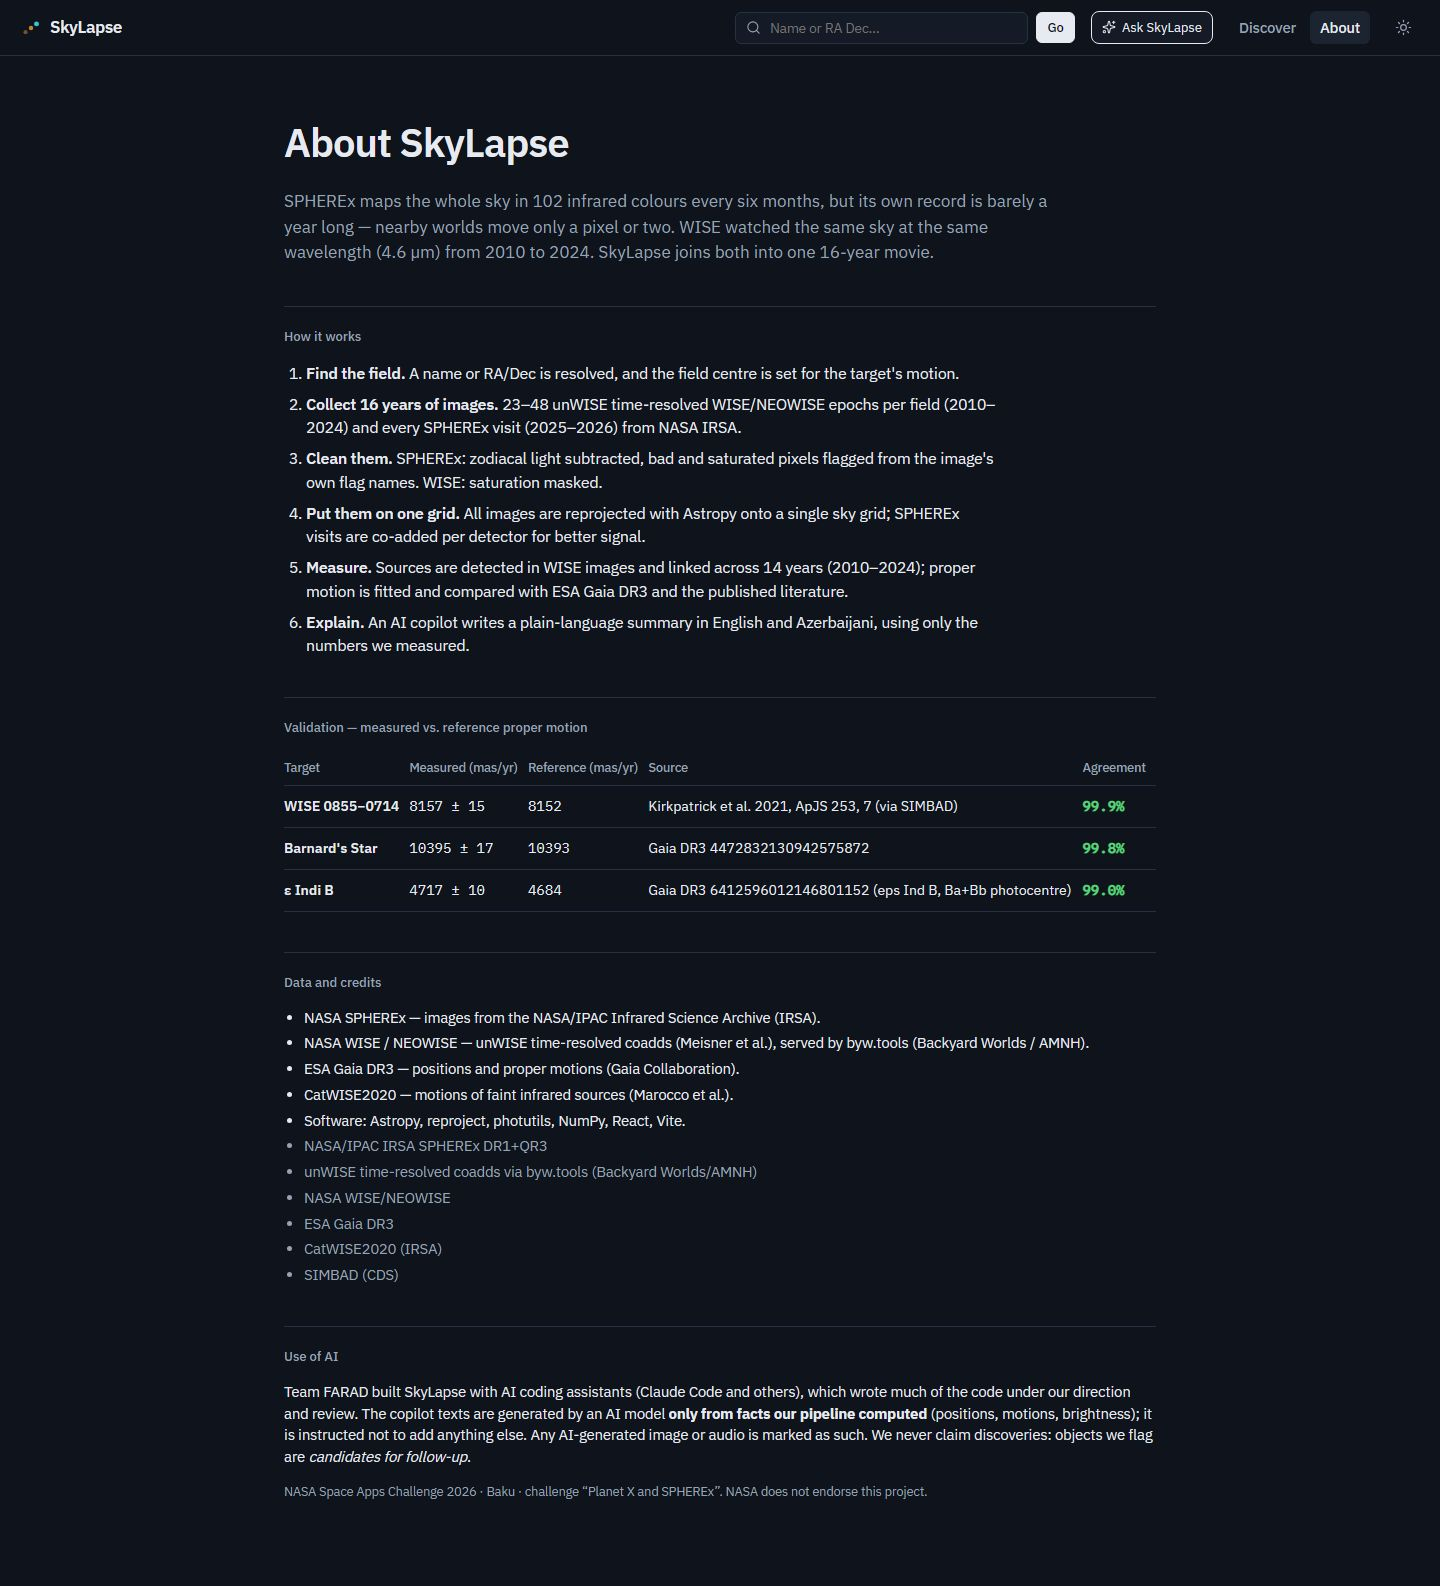
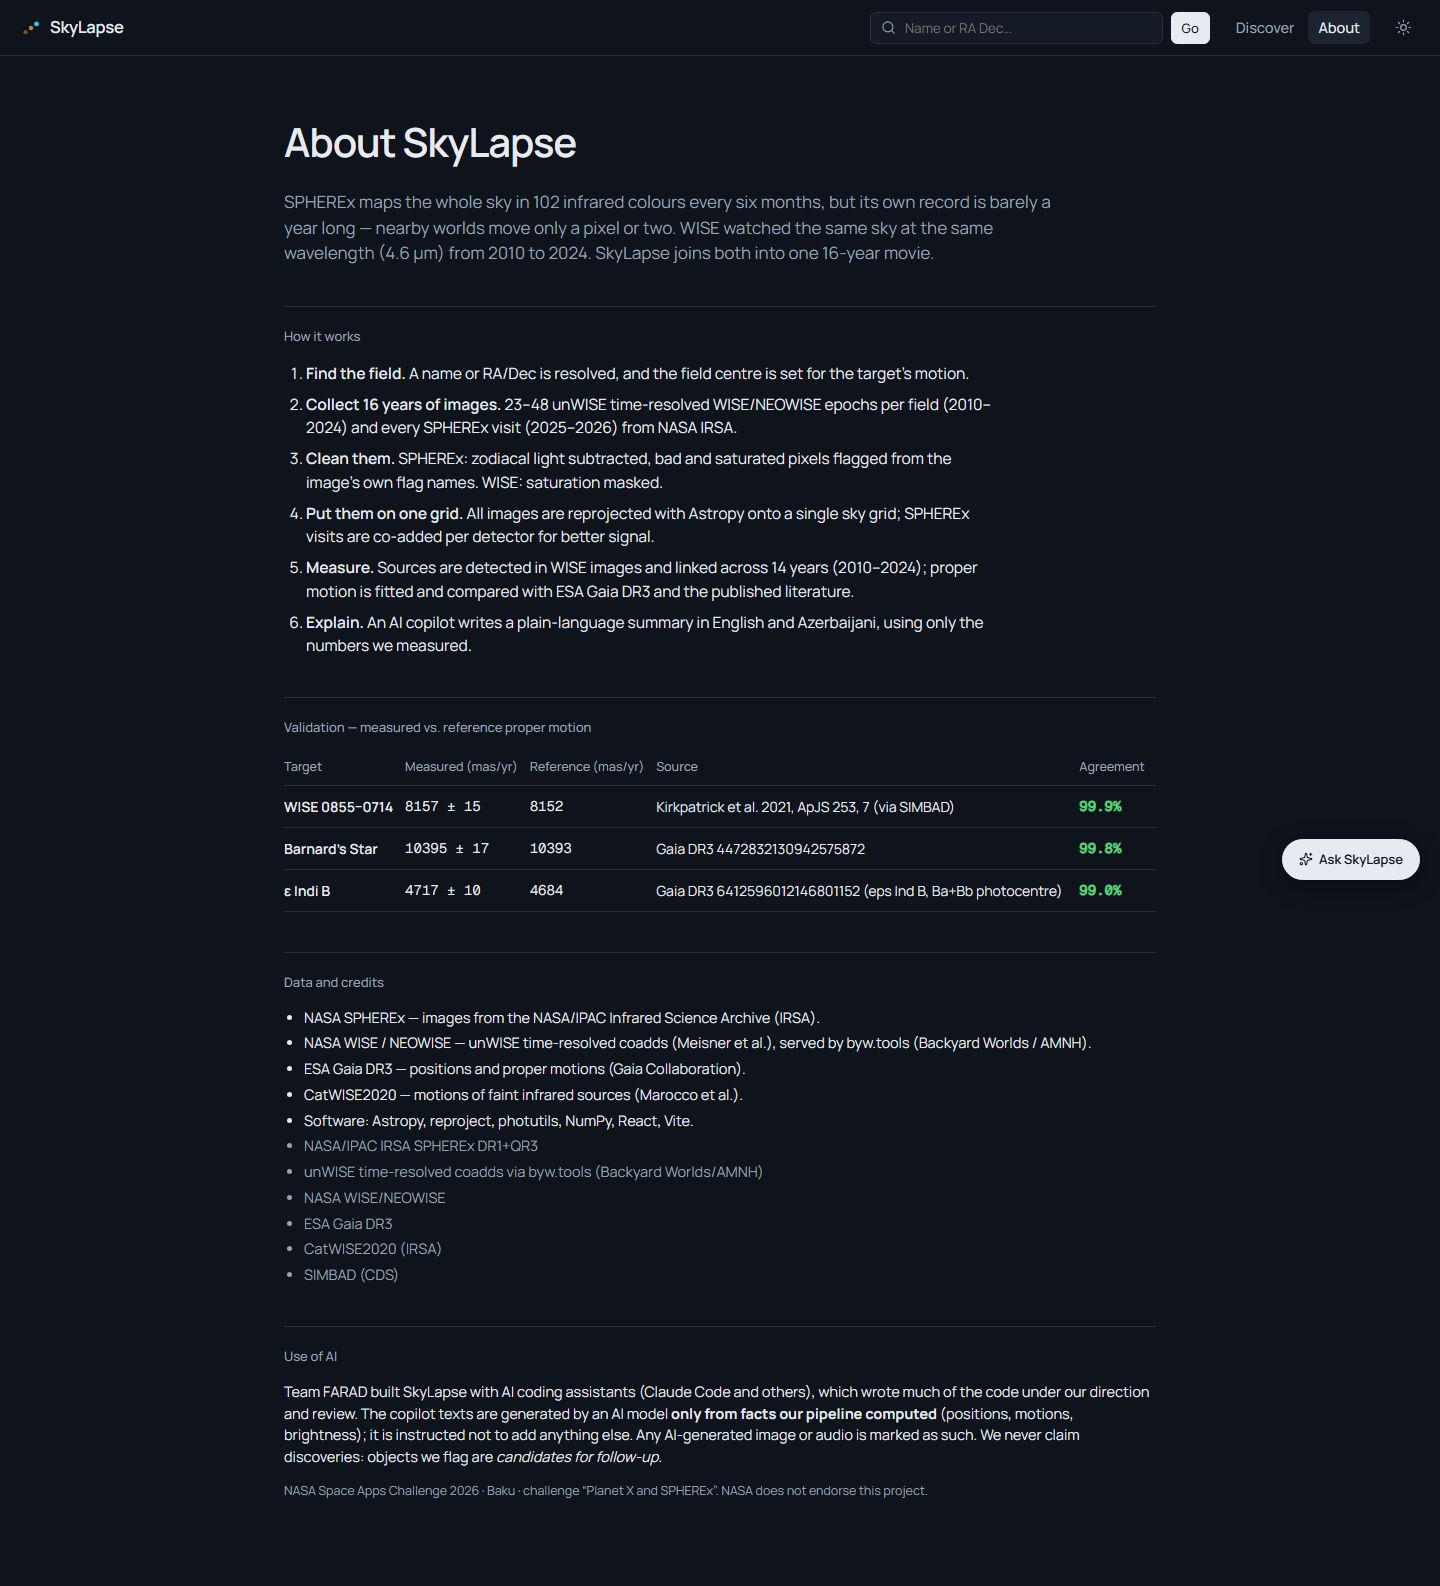
web: final v2.2 screenshots from the live site; frontend journal

diff --git a/ops/memory/sessions/frontend.md b/ops/memory/sessions/frontend.md
@@ -1,11 +1,11 @@
 # Journal — role: frontend  (only this role writes this file; keep < ~120 lines; replace stale lines)
-Last update: Sun 13:42 Baku
+Last update: Sun 14:30 Baku
 
 ## Current task
-#121 redesign. v2 (PR #131, #134) merged + deployed. v2.1 = Azer feedback, on branch `frontend/azer-review` (pushed, NO PR on purpose: Azer said do not deploy until he checks).
+None. #121 redesign CLOSED. v2.2 (PR #138: Manrope + Geist Mono, collapsible panels, wide view fills stage, Full screen button, add/subtract block, floating Ask, no-data hatch) merged 13:54 + deployed.
 
 ## Status
-v2.1 done + 50/50 checklist: Manrope + Geist Mono, collapsible panels (rail arrows, remembered in localStorage skylapse.left/right), wide view (canvas up to 1.6:1 when a panel is closed, crops top/bottom, key F), add/subtract block in the left rail, Ask SkyLapse floating bottom-right (still mounted in TopBar), no-data hatch (exact 0 / NaN) + thumbnail auto-crop. Waiting for Azer OK → then: git checkout role/frontend; git merge frontend/azer-review; PR; re-shoot web/design-refs/v2.
+Live site verified 14:27: all 7 pages, both themes, desktop + phone, no console errors. Final screenshots (from the live site) in web/design-refs/v2. Autonomous mode paused. Not tested: Full screen button in a real (non-headless) browser.
 
 ## Done (with proof)
 - Joined repo (folder = working copy on role/frontend). R0: web/DESIGN.md + web/design-refs/*.png (WiseView, Legacy Surveys, NASA Eyes).
